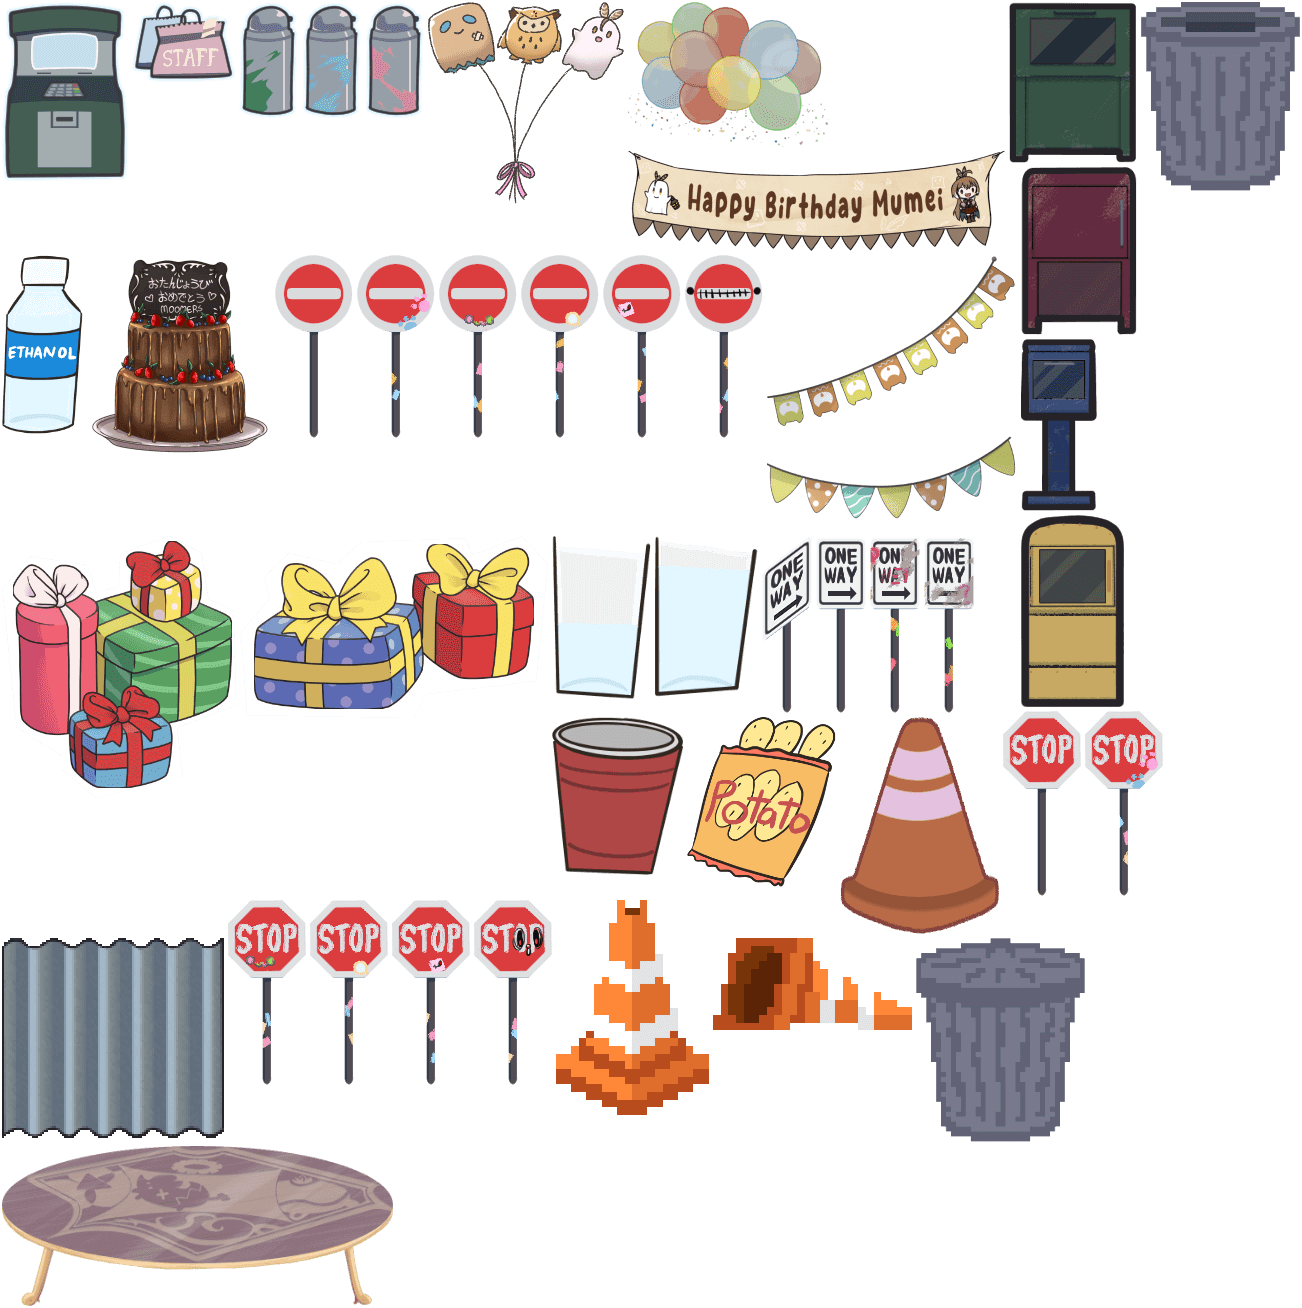
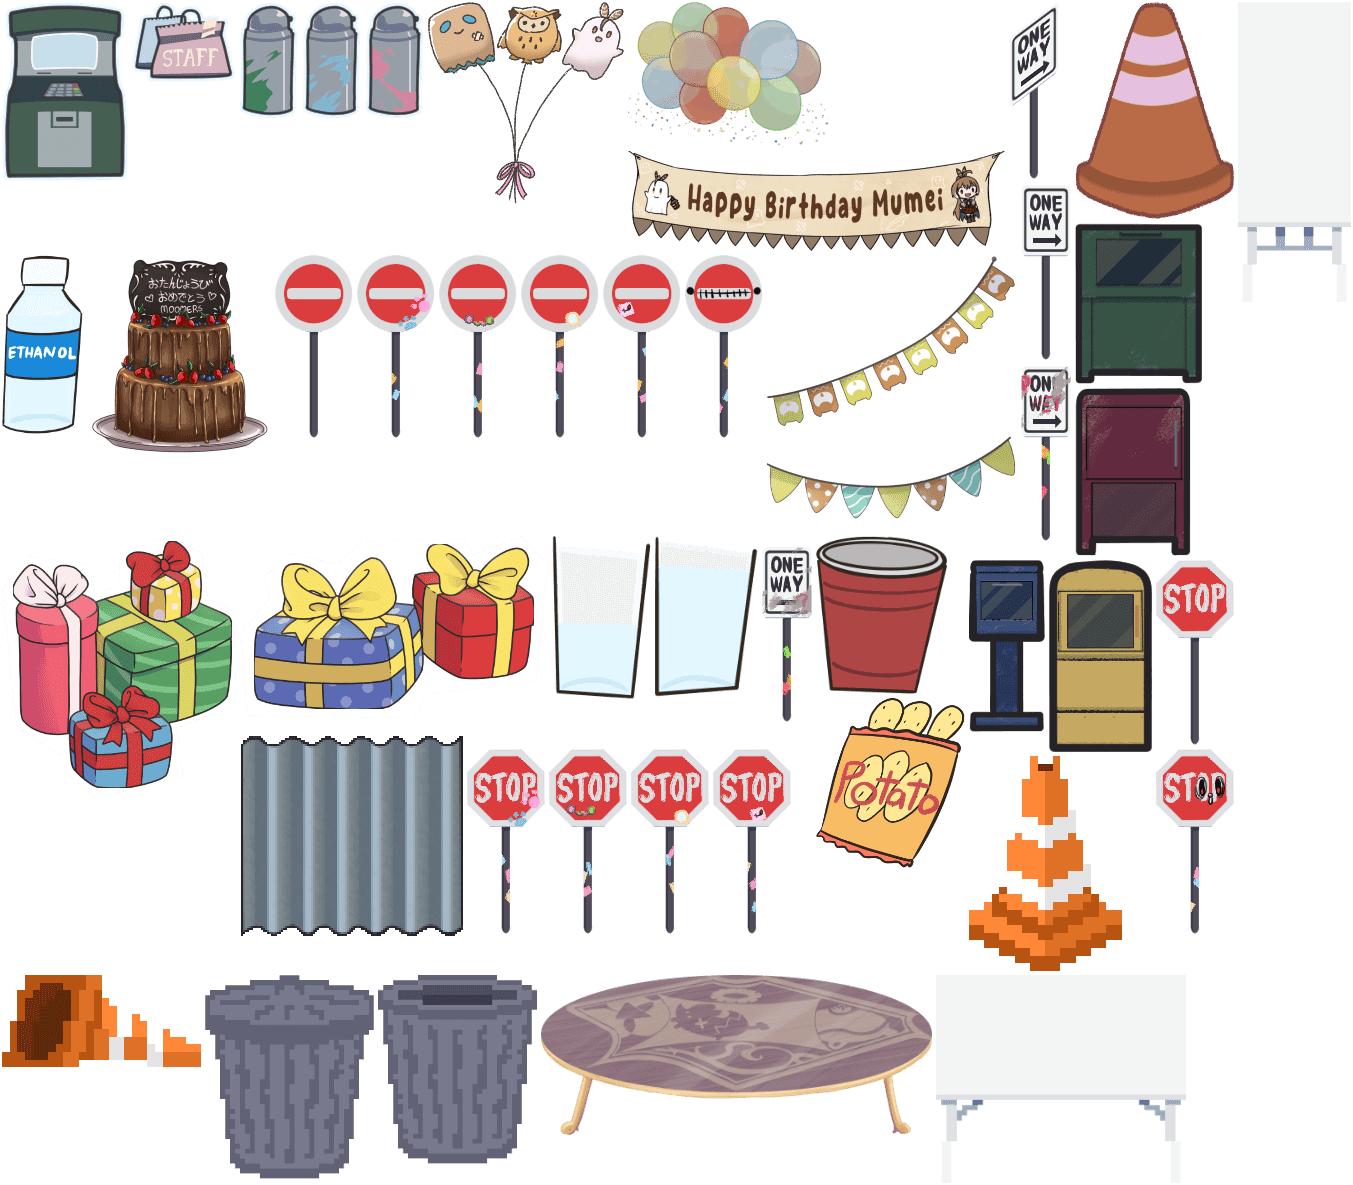
Party props tweaks

diff --git a/src/scenes/amogus/amogus.js b/src/scenes/amogus/amogus.js
@@ -455,10 +455,6 @@ class AmogusScene extends Phaser.Scene {
       ['SPRAY3', 2550, 2790, 0.8],
       ['SPRAY1', 2580, 2810, 0.8],
       ['SPRAY2', 2600, 2800, 0.8],
-      ['acas_balloon', 3180, 2780, 1.5],
-      ['acas_balloon', 4500, 2800, 1.5],
-      ['acas_balloon', 3000, 3400, 1.5],
-      ['acas_balloon', 4700, 3400, 1.5],
       ['szy_cone_tired', 6220, 3420, 0.8],
     ]);
 
@@ -792,7 +788,7 @@ class AmogusScene extends Phaser.Scene {
     ((props) => {
       props.forEach(([frame, x, y, scale, origin]) => {
         this.add.sprite(x, y, 'decor')
-          .setOrigin(0.5, origin).setScale(scale).setDepth(10000 + y).setPipeline('Light2D')
+          .setOrigin(0.5, origin || 1).setScale(scale).setDepth(10000 + y).setPipeline('Light2D')
           .setFrame(frame);
       })
     })([
@@ -812,6 +808,42 @@ class AmogusScene extends Phaser.Scene {
       ["cake",3625,2798,0.6,0.98],
       ["gifts1",3778,2779,0.35],
       ["gifts2",3405,2775,0.3],
+      ['acas_balloon', 3180, 2780 - 80, 0.8],
+      ['acas_balloon', 4500, 2800 - 80, 0.8],
+      ['acas_balloon', 3000, 3400 - 80, 0.8],
+      ['acas_balloon', 4700, 3400 - 80, 0.8],
+      ["balloons2",2991,3430,0.8],
+      ["table1",3911,2708,0.5, 0.1],
+      ["table1",3166,2713,0.55, 0.1],
+      ["glassWater1",3140,2738,0.2],
+      ["partyCup",3213,2731,0.15],
+      ["partyCup",3118,2764,0.15],
+      ["partyCup",3867,2727,0.15],
+      ["partyCup",3958,2749,0.15],
+      ["partyCup",3881,2753,0.15],
+      ["snacksPotatoChips",3908,2752,0.2],
+      ["snacksPotatoChips",3209,2769,0.2],
+      ["bottle",3175,2742,0.2],
+      ["bottle",3933,2749,0.2],
+      ["glassWater2",3895,2708,0.2],
+      ["stop1",1763,2166,0.8],
+      ["stop2",2328,2325,0.8],
+      ["stop4",2459,1781,0.8],
+      ["stop6",3184,1045,0.8],
+      ["dne6",4452,826,0.8],
+      ["stop1",5813,1778,0.8],
+      ["stop1",5695,2313,0.8],
+      ["stop5",5109,2167,0.8],
+      ["stop1",5109,4148,0.8],
+      ["stop1",2494,3753,0.8],
+      ["stop1",1881,4150,0.8],
+      ["ow0",3192,1769,0.8],
+      ["balloons2",3169,2710,0.5],
+      ["balloons2",4494,2738,0.5],
+      ["balloons2",4686,3339,0.5],
+      ["balloons2",2987,3343,0.5],
+      ["szy_cone_tired",3286,2765,0.4],
+      ["szy_trash_bim_lidless",4029,2771,0.4],
     ]);
     // Lights
     [...new Array(5)].forEach((e, i) => {
